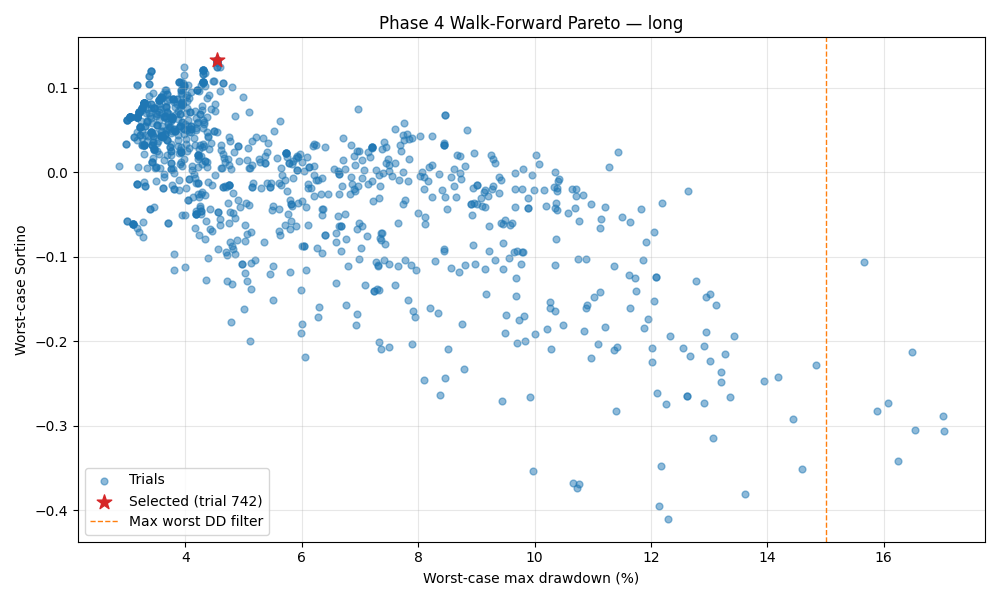
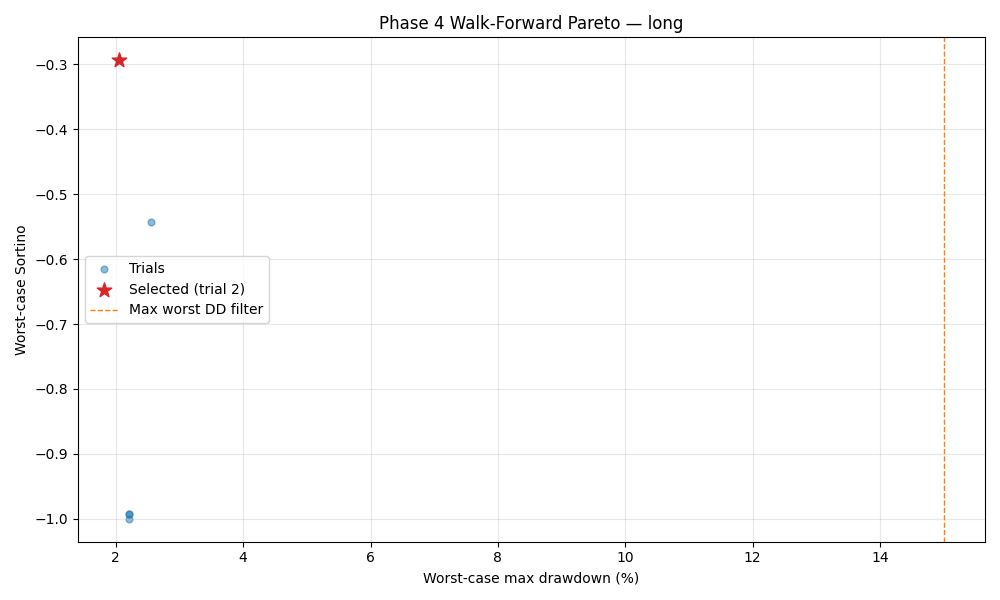
Update configuration parameters and documentation for Phase 2 and Phase 4 optimizations, including adjustments to Sortino scale and cap, risk parameters, and validation splits. Enhance unit tests to reflect new parameter bounds.

diff --git a/gpu_fuzzy_trader/config.py b/gpu_fuzzy_trader/config.py
@@ -156,8 +156,8 @@ PHASE2_SUPPORT_PENALTY_WEIGHT_F2 = 0.35
 PHASE2_SUPPORT_PENALTY_WEIGHT_F3 = 0.35
 
 # Fitness transform: tanh(sortino / SCALE) * CAP (avoids sentinel pinning at gen 0).
-SORTINO_CAP = 5.0
-SORTINO_SCALE = 3.0
+SORTINO_CAP = 15.0
+SORTINO_SCALE = 5.0
 
 # Worst-case train/val Sortino when both splits are evaluated.
 PHASE2_JOINT_TRAIN_VAL = True
@@ -175,7 +175,7 @@ PHASE2_ARCHIVE_MAX_SIZE = 500
 PHASE2_ARCHIVE_SEED_FRACTION = 0.35
 
 # Regime-stratified trade support (Phase 1 GMM artifact).
-PHASE2_REGIME_SUPPORT_ENABLED = True
+PHASE2_REGIME_SUPPORT_ENABLED = False
 PHASE2_REGIME_MODEL_PATH = PHASE1_REGIME_MODEL_PATH
 PHASE2_REGIME_CONCENTRATION_MIN = 0.90
 PHASE2_REGIME_MIN_WIN_RATE = 0.40
@@ -216,7 +216,7 @@ PHASE3_USE_TRAIN_TARGET = True
 # reject if val_sortino < ratio * train_sortino
 PHASE3_VAL_SORTINO_RATIO_GATE = 0.5
 PHASE3_VAL_DRAWDOWN_RATIO_GATE = 1.5  # reject if val_dd > ratio * train_dd
-PHASE3_PER_RULE_MIN_VAL_TRADES_PER_SYMBOL = 5
+PHASE3_PER_RULE_MIN_VAL_TRADES_PER_SYMBOL = 15
 # penalty on low corr(per-symbol PnL train, val)
 PHASE3_TRAIN_VAL_CORR_WEIGHT = 5.0
 PHASE3_VAL_GATE_PENALTY = 75.0
@@ -242,11 +242,11 @@ PHASE4_SL_MAX = 3.0
 PHASE4_CAPITAL_PCT_MIN = 10.0
 PHASE4_CAPITAL_PCT_MAX = 50.0
 PHASE4_TP_STEP = 0.5
-PHASE4_SL_STEP = 0.25
+PHASE4_SL_STEP = 0.5
 PHASE4_CAPITAL_STEP = 5.0
 PHASE4_TOTAL_CAP_PENALTY = 2.0
-PHASE4_N_TRIALS = 1000
-PHASE4_WF_SPLITS = 2
+PHASE4_N_TRIALS = 200
+PHASE4_WF_SPLITS = 4
 PHASE4_MAX_WORST_DRAWDOWN_PCT = 15.0
 PHASE4_SAMPLER = "nsga2"  # alternative: "tpe"
 PHASE4_SEED = 42

diff --git a/tests/unit/test_phase4_wf_optimizer.py b/tests/unit/test_phase4_wf_optimizer.py
@@ -163,8 +163,8 @@ class TestNormalizeCapitalPct:
 class TestParamsWithinBounds:
     def test_valid(self):
         rs = _make_rule_set()
-        rs["rules_set"][0]["tp"] = 2.0
-        rs["rules_set"][0]["sl"] = 1.0
+        rs["rules_set"][0]["tp"] = 4.0
+        rs["rules_set"][0]["sl"] = 2.0
         rs["rules_set"][0]["capital_pct"] = 20.0
         assert _params_within_bounds(rs) is True
 
@@ -211,8 +211,8 @@ class TestWalkForwardRiskOptimizer:
         data = _make_rule_set()
         data["risk_optimized"] = True
         for r in data["rules_set"]:
-            r["tp"] = 2.0
-            r["sl"] = 1.0
+            r["tp"] = 4.0
+            r["sl"] = 2.0
             r["capital_pct"] = 20.0
         path.write_text(json.dumps(data), encoding="utf-8")
         monkeypatch.setitem(m._OUTPUT_PATHS, "long", str(path))

diff --git a/docs/phase2_rule_pool.md b/docs/phase2_rule_pool.md
@@ -58,7 +58,7 @@ Raw Sortino values are passed through a tanh transform before being used as obje
 saturated = tanh(raw_sortino / SORTINO_SCALE) × SORTINO_CAP
 ```
 
-`SORTINO_SCALE = 3.0`, `SORTINO_CAP = 5.0` (config).
+`SORTINO_SCALE = 5.0`, `SORTINO_CAP = 15.0` (config).
 
 **Why saturation?** Without it, a rule with Sortino = 100 would dominate the Pareto front and crowd out rules with Sortino = 5 that might have better drawdown or win rate. The tanh transform compresses extreme values, allowing the Pareto front to maintain diversity across the objective space.
 
@@ -84,8 +84,8 @@ If the validation engine is unavailable or val trades are below `MIN_TRADE_POOL_
 
 During Phase 2, all rules are evaluated with fixed risk parameters:
 
-- `PHASE2_TP = 3.0` (%)
-- `PHASE2_SL = 1.5` (%)
+- `PHASE2_TP = 4.0` (%)
+- `PHASE2_SL = 2.0` (%)
 - `PHASE2_CAPITAL_PCT = 32.0` (%)
 
 **Why fixed?** Phase 2 is searching for rules with predictive alpha — the ability to identify market conditions that precede favorable price moves. By fixing TP/SL/capital, the search isolates rule quality from risk parameter tuning. Phase 4 handles risk optimization separately.
@@ -126,7 +126,7 @@ multiplied by per-objective weights `PHASE2_SUPPORT_PENALTY_WEIGHT_F1`,
 
 ### Regime-aware support penalty — `phase2_support.py`
 
-When `PHASE2_REGIME_SUPPORT_ENABLED = True`, a rule that concentrates its trades in one market regime can bypass the global support penalty if it meets the specialist criteria:
+When `PHASE2_REGIME_SUPPORT_ENABLED = False`, regime-specialist waivers are disabled and all rules follow the global support penalty. If you re-enable the flag for an experiment, a rule that concentrates its trades in one market regime can bypass the global support penalty if it meets the specialist criteria:
 
 1. **Concentration:** `trades_in_dominant_regime / total_trades ≥ PHASE2_REGIME_CONCENTRATION_MIN` (default: 0.90)
 2. **Threshold:** `trades_in_dominant_regime ≥ per_regime_trade_thresholds[dominant_regime]`
@@ -260,39 +260,39 @@ A chromosome is only included in the pool if `executed_trades ≥ MIN_TRADE_POOL
 
 ## 9. Configuration Reference
 
-| Parameter                            | Default   | Technical effect                                                                                                                |
-| ------------------------------------ | --------- | ------------------------------------------------------------------------------------------------------------------------------- |
-| `PHASE2_TP`                          | `3.0`     | TP % used for all Phase 2 evaluations. Increasing requires larger price moves to win, reducing trade frequency.                 |
-| `PHASE2_SL`                          | `1.5`     | SL % used for all Phase 2 evaluations. Increasing allows more drawdown before stopping out.                                     |
-| `PHASE2_CAPITAL_PCT`                 | `32.0`    | Capital % per rule during Phase 2. Affects position sizing and thus absolute PnL, but not Sortino (which is return-normalized). |
-| `MIN_CONDITIONS`                     | `3`       | Minimum active conditions per rule. Increase for more specific rules.                                                           |
-| `MAX_CONDITIONS`                     | `4`       | Maximum active conditions per rule. Decrease for simpler rules.                                                                 |
-| `MIN_TRADE_SUPPORT`                  | `200`     | Minimum trades for zero support penalty. Increase to require more statistical evidence.                                         |
-| `SUPPORT_PENALTY_MAX`                | `12.0`    | Maximum support penalty magnitude. Increase to more aggressively penalize low-frequency rules.                                  |
-| `MIN_TRADE_POOL_FLOOR`               | `50`      | Hard minimum trades for pool inclusion. Rules below this are excluded regardless of Sortino.                                    |
-| `PHASE2_SUPPORT_PENALTY_WEIGHT_F1`  | `1.0`     | Multiplicative weight applied to support penalty in Phase 2 objective `f1`.                                            |
-| `PHASE2_SUPPORT_PENALTY_WEIGHT_F2`  | `0.35`    | Multiplicative weight applied to support penalty in Phase 2 objective `f2`.                                           |
-| `PHASE2_SUPPORT_PENALTY_WEIGHT_F3`  | `0.35`    | Multiplicative weight applied to support penalty in Phase 2 objective `f3`.                                           |
-| `SORTINO_CAP`                        | `5.0`     | Maximum saturated Sortino value. Increase to allow more differentiation at the top end.                                         |
-| `SORTINO_SCALE`                      | `3.0`     | tanh saturation scale. Increase for less aggressive compression.                                                                |
-| `PHASE2_JOINT_TRAIN_VAL`             | `True`    | Use min(train, val) Sortino as objective. Disable to optimize on training only (higher overfitting risk).                       |
-| `PHASE2_DIVERSITY_HAMMING_THRESHOLD` | `2`       | Hamming distance threshold for diversity penalty. Increase to enforce more diversity.                                           |
-| `PHASE2_DIVERSITY_PENALTY`           | `5.0`     | Penalty magnitude for near-duplicate chromosomes. Increase to more aggressively enforce diversity.                              |
-| `PHASE2_POPULATION_SIZE`             | `200`     | Population size. Increase for better Pareto coverage (linear compute cost).                                                     |
-| `PHASE2_GENERATIONS`                 | `200`     | Number of generations. Increase for more evolution (linear compute cost).                                                       |
-| `PHASE2_ALGORITHM`                   | `"NSGA3"` | Fixed. NSGA-III when EvoX is installed, NSGA-II fallback otherwise.                                                             |
-| `PHASE2_ARCHIVE_MAX_SIZE`            | `500`     | Maximum archive size per direction.                                                                                             |
-| `PHASE2_ARCHIVE_SEED_FRACTION`       | `0.35`    | Fraction of population seeded from previous pool. Increase for faster convergence, decrease for more exploration.               |
-| `PHASE2_INIT_STRATEGY`               | `"stratified_sparse"` | `stratified_sparse` enforces 3–4 active genes; `legacy` uses per-gene dont_care probability.                          |
-| `PHASE2_INIT_STRATUM_FRACTIONS`      | `(0.5, 0.3, 0.2)` | Elite / explorer / regime shares of non-seeded population.                                                              |
-| `PHASE2_INIT_SOFTMAX_TEMP`           | `0.5`     | Temperature for Phase 1 score softmax in elite stratum.                                                                         |
-| `PHASE2_INIT_UNIFORM_MIX`            | `0.05`    | Uniform floor mixed into feature sampling probabilities.                                                                        |
-| `PHASE2_MUTATION_WEIGHTED_ACTIVATE_PROB` | `0.70` | Probability of softmax-weighted vs uniform choice when mutation activates a gene.                                       |
-| `PHASE2_REGIME_SUPPORT_ENABLED`      | `True`    | Enable regime-aware specialist bypass. Disable to use only global support penalty.                                              |
-| `PHASE2_REGIME_CONCENTRATION_MIN`    | `0.90`    | Minimum trade concentration in one regime for specialist status.                                                                |
-| `PHASE2_REGIME_MIN_WIN_RATE`         | `0.40`    | Minimum win rate in dominant regime for specialist quality gate.                                                                |
-| `PHASE2_REGIME_USE_PNL_GATE`         | `True`    | Allow positive PnL (instead of win rate) to satisfy the specialist quality gate.                                                |
-| `PHASE2_NUMBA_ENABLED`               | `True`    | Use Numba-JIT NSGA helpers. Disable only for debugging.                                                                         |
+| Parameter                                | Default               | Technical effect                                                                                                                |
+| ---------------------------------------- | --------------------- | ------------------------------------------------------------------------------------------------------------------------------- |
+| `PHASE2_TP`                              | `3.0`                 | TP % used for all Phase 2 evaluations. Increasing requires larger price moves to win, reducing trade frequency.                 |
+| `PHASE2_SL`                              | `1.5`                 | SL % used for all Phase 2 evaluations. Increasing allows more drawdown before stopping out.                                     |
+| `PHASE2_CAPITAL_PCT`                     | `32.0`                | Capital % per rule during Phase 2. Affects position sizing and thus absolute PnL, but not Sortino (which is return-normalized). |
+| `MIN_CONDITIONS`                         | `3`                   | Minimum active conditions per rule. Increase for more specific rules.                                                           |
+| `MAX_CONDITIONS`                         | `4`                   | Maximum active conditions per rule. Decrease for simpler rules.                                                                 |
+| `MIN_TRADE_SUPPORT`                      | `200`                 | Minimum trades for zero support penalty. Increase to require more statistical evidence.                                         |
+| `SUPPORT_PENALTY_MAX`                    | `12.0`                | Maximum support penalty magnitude. Increase to more aggressively penalize low-frequency rules.                                  |
+| `MIN_TRADE_POOL_FLOOR`                   | `50`                  | Hard minimum trades for pool inclusion. Rules below this are excluded regardless of Sortino.                                    |
+| `PHASE2_SUPPORT_PENALTY_WEIGHT_F1`       | `1.0`                 | Multiplicative weight applied to support penalty in Phase 2 objective `f1`.                                                     |
+| `PHASE2_SUPPORT_PENALTY_WEIGHT_F2`       | `0.35`                | Multiplicative weight applied to support penalty in Phase 2 objective `f2`.                                                     |
+| `PHASE2_SUPPORT_PENALTY_WEIGHT_F3`       | `0.35`                | Multiplicative weight applied to support penalty in Phase 2 objective `f3`.                                                     |
+| `SORTINO_CAP`                            | `5.0`                 | Maximum saturated Sortino value. Increase to allow more differentiation at the top end.                                         |
+| `SORTINO_SCALE`                          | `3.0`                 | tanh saturation scale. Increase for less aggressive compression.                                                                |
+| `PHASE2_JOINT_TRAIN_VAL`                 | `True`                | Use min(train, val) Sortino as objective. Disable to optimize on training only (higher overfitting risk).                       |
+| `PHASE2_DIVERSITY_HAMMING_THRESHOLD`     | `2`                   | Hamming distance threshold for diversity penalty. Increase to enforce more diversity.                                           |
+| `PHASE2_DIVERSITY_PENALTY`               | `5.0`                 | Penalty magnitude for near-duplicate chromosomes. Increase to more aggressively enforce diversity.                              |
+| `PHASE2_POPULATION_SIZE`                 | `200`                 | Population size. Increase for better Pareto coverage (linear compute cost).                                                     |
+| `PHASE2_GENERATIONS`                     | `200`                 | Number of generations. Increase for more evolution (linear compute cost).                                                       |
+| `PHASE2_ALGORITHM`                       | `"NSGA3"`             | Fixed. NSGA-III when EvoX is installed, NSGA-II fallback otherwise.                                                             |
+| `PHASE2_ARCHIVE_MAX_SIZE`                | `500`                 | Maximum archive size per direction.                                                                                             |
+| `PHASE2_ARCHIVE_SEED_FRACTION`           | `0.35`                | Fraction of population seeded from previous pool. Increase for faster convergence, decrease for more exploration.               |
+| `PHASE2_INIT_STRATEGY`                   | `"stratified_sparse"` | `stratified_sparse` enforces 3–4 active genes; `legacy` uses per-gene dont_care probability.                                    |
+| `PHASE2_INIT_STRATUM_FRACTIONS`          | `(0.5, 0.3, 0.2)`     | Elite / explorer / regime shares of non-seeded population.                                                                      |
+| `PHASE2_INIT_SOFTMAX_TEMP`               | `0.5`                 | Temperature for Phase 1 score softmax in elite stratum.                                                                         |
+| `PHASE2_INIT_UNIFORM_MIX`                | `0.05`                | Uniform floor mixed into feature sampling probabilities.                                                                        |
+| `PHASE2_MUTATION_WEIGHTED_ACTIVATE_PROB` | `0.70`                | Probability of softmax-weighted vs uniform choice when mutation activates a gene.                                               |
+| `PHASE2_REGIME_SUPPORT_ENABLED`          | `True`                | Enable regime-aware specialist bypass. Disable to use only global support penalty.                                              |
+| `PHASE2_REGIME_CONCENTRATION_MIN`        | `0.90`                | Minimum trade concentration in one regime for specialist status.                                                                |
+| `PHASE2_REGIME_MIN_WIN_RATE`             | `0.40`                | Minimum win rate in dominant regime for specialist quality gate.                                                                |
+| `PHASE2_REGIME_USE_PNL_GATE`             | `True`                | Allow positive PnL (instead of win rate) to satisfy the specialist quality gate.                                                |
+| `PHASE2_NUMBA_ENABLED`                   | `True`                | Use Numba-JIT NSGA helpers. Disable only for debugging.                                                                         |
 
 ---
 

diff --git a/docs/phase4_wf_risk.md b/docs/phase4_wf_risk.md
@@ -4,39 +4,46 @@
 
 Phase 4 fine-tunes the risk parameters (TP, SL, and capital allocation) for each rule in the strategy selected by Phase 3. The rule conditions are frozen — Phase 4 only adjusts the numbers, not the logic.
 
+Current config defaults intentionally use a tighter search budget than earlier revisions: `PHASE4_N_TRIALS = 200`, `PHASE4_WF_SPLITS = 4`, `PHASE4_TP_STEP = 0.5`, and `PHASE4_SL_STEP = 0.5`.
+
 ---
 
 ## 1. What Phase 4 Optimizes
 
 For each rule in the strategy, Phase 4 searches for the best values of:
+
 - `tp`: Take-profit percentage (how far price must move in your favor to close the trade as a win)
 - `sl`: Stop-loss percentage (how far price must move against you before the trade is closed as a loss)
 - `capital_pct`: Percentage of current equity to allocate to this rule's trades
 
-These three parameters per rule define the risk profile of the strategy. Phase 2 used fixed values (`PHASE2_TP = 3.0`, `PHASE2_SL = 1.5`, `PHASE2_CAPITAL_PCT = 48.0`) to isolate rule quality from risk tuning. Phase 4 now optimizes these values jointly.
+These three parameters per rule define the risk profile of the strategy. Phase 2 used fixed values (`PHASE2_TP = 4.0`, `PHASE2_SL = 2.0`, `PHASE2_CAPITAL_PCT = 32.0`) to isolate rule quality from risk tuning. Phase 4 now optimizes these values jointly.
 
 ---
 
 ## 2. Walk-Forward Validation — `split_validation_walk_forward`
 
-The validation split is divided into K chronological windows (`PHASE4_WF_SPLITS = 2` by default).
+The validation split is divided into K chronological windows (`PHASE4_WF_SPLITS = 4` by default).
 
 ### How the split works
 
 For each symbol independently:
+
 1. Rows are sorted by datetime.
 2. `np.array_split(np.arange(N), K)` divides the rows into K equal-sized chunks.
 3. Window i = concatenation of all symbols' chunk i.
 
-For example, with K=2 and a symbol with 1000 validation rows:
-- Window 1: rows 0–499 (first half of validation period)
-- Window 2: rows 500–999 (second half of validation period)
+For example, with K=4 and a symbol with 1000 validation rows:
+
+- Window 1: rows 0–249 (first quarter of validation period)
+- Window 2: rows 250–499
+- Window 3: rows 500–749
+- Window 4: rows 750–999 (last quarter)
 
 ### Why walk-forward?
 
 A single validation evaluation can be lucky or unlucky depending on the specific time period. Walk-forward validation evaluates the strategy on multiple non-overlapping time windows and uses the **worst-case** performance across windows as the objective. This is a conservative estimate of out-of-sample performance.
 
-**Effect of `PHASE4_WF_SPLITS`:** Increasing K (e.g., to 4) provides more robust worst-case estimates but requires more validation data per window. With K=2, each window has 50% of the validation data. With K=4, each window has 25%. If any symbol has fewer than K validation rows, Phase 4 will raise a `ValueError`.
+**Effect of `PHASE4_WF_SPLITS`:** Increasing K provides more robust worst-case estimates but requires more validation data per window. With K=4, each window has 25% of the validation data. If any symbol has fewer than K validation rows, Phase 4 will raise a `ValueError`.
 
 ---
 
@@ -68,25 +75,26 @@ penalty = max(0, total_cap − 100.0) / 100.0 × PHASE4_TOTAL_CAP_PENALTY
 
 Each rule's parameters are sampled from quantized ranges:
 
-| Parameter | Range | Step | Config keys |
-|---|---|---|---|
-| `tp` | [2.0%, 4.0%] | 0.2% | `PHASE4_TP_MIN/MAX/STEP` |
-| `sl` | [1.0%, 2.0%] | 0.2% | `PHASE4_SL_MIN/MAX/STEP` |
+| Parameter     | Range          | Step | Config keys                       |
+| ------------- | -------------- | ---- | --------------------------------- |
+| `tp`          | [4.0%, 6.0%]   | 0.5% | `PHASE4_TP_MIN/MAX/STEP`          |
+| `sl`          | [2.0%, 3.0%]   | 0.5% | `PHASE4_SL_MIN/MAX/STEP`          |
 | `capital_pct` | [10.0%, 50.0%] | 5.0% | `PHASE4_CAPITAL_PCT_MIN/MAX/STEP` |
 
-The quantization (step sizes) reduces the search space and prevents the optimizer from finding spurious precision. For example, TP has `(4.0 − 2.0) / 0.2 + 1 = 11` possible values.
+The quantization (step sizes) reduces the search space and prevents the optimizer from finding spurious precision. For example, TP has `(6.0 − 4.0) / 0.5 + 1 = 5` possible values.
 
 **Effect of search space bounds:**
+
 - `PHASE4_TP_MIN/MAX`: Narrowing the TP range focuses the search. If you know from Phase 2 that rules work best with TP around 3%, you could narrow to [2.5%, 3.5%].
 - `PHASE4_SL_MIN/MAX`: A tighter SL range (e.g., [1.0%, 1.5%]) forces more conservative stops.
 - `PHASE4_CAPITAL_PCT_MIN/MAX`: Lowering the maximum (e.g., to 30%) limits position sizing, reducing both upside and downside.
 
 ### Sampler — `PHASE4_SAMPLER`
 
-| Value | Algorithm | Behavior |
-|---|---|---|
-| `"nsga2"` (default) | NSGA-II | Multi-objective evolutionary search. Maintains a Pareto front of trials. Good for exploring the trade-off between Sortino and drawdown. |
-| `"tpe"` | Tree-structured Parzen Estimator | Bayesian optimization. Faster convergence but less diversity on the Pareto front. |
+| Value               | Algorithm                        | Behavior                                                                                                                                |
+| ------------------- | -------------------------------- | --------------------------------------------------------------------------------------------------------------------------------------- |
+| `"nsga2"` (default) | NSGA-II                          | Multi-objective evolutionary search. Maintains a Pareto front of trials. Good for exploring the trade-off between Sortino and drawdown. |
+| `"tpe"`             | Tree-structured Parzen Estimator | Bayesian optimization. Faster convergence but less diversity on the Pareto front.                                                       |
 
 **Effect of `PHASE4_N_TRIALS`:** The total number of Optuna trials. At 1000 trials with 2 rules, each trial evaluates 2 walk-forward windows = 2000 backtest simulations. Increasing this improves the quality of the Pareto front but increases compute time linearly.
 
@@ -137,25 +145,25 @@ Phase 4 is skipped if `outputs/{direction}.json` already exists, has `risk_optim
 
 ## 8. Configuration Reference
 
-| Parameter | Default | Technical effect |
-|---|---|---|
-| `PHASE4_TP_MIN` | `2.0` | Minimum TP % in search space. |
-| `PHASE4_TP_MAX` | `4.0` | Maximum TP % in search space. |
-| `PHASE4_SL_MIN` | `1.0` | Minimum SL % in search space. |
-| `PHASE4_SL_MAX` | `2.0` | Maximum SL % in search space. |
-| `PHASE4_CAPITAL_PCT_MIN` | `10.0` | Minimum capital % per rule. |
-| `PHASE4_CAPITAL_PCT_MAX` | `50.0` | Maximum capital % per rule. |
-| `PHASE4_TP_STEP` | `0.2` | TP quantization step. Decrease for finer search (larger search space). |
-| `PHASE4_SL_STEP` | `0.2` | SL quantization step. |
-| `PHASE4_CAPITAL_STEP` | `5.0` | Capital % quantization step. |
-| `PHASE4_TOTAL_CAP_PENALTY` | `2.0` | Penalty per unit of over-allocation. Increase to more aggressively penalize over-allocation. |
-| `PHASE4_N_TRIALS` | `1000` | Total Optuna trials. Increase for better optimization (linear compute cost). |
-| `PHASE4_WF_SPLITS` | `2` | Number of walk-forward windows. Increase for more robust worst-case estimates. |
-| `PHASE4_MAX_WORST_DRAWDOWN_PCT` | `15.0` | Maximum acceptable worst-case drawdown. Decrease for more conservative strategies. |
-| `PHASE4_SAMPLER` | `"nsga2"` | Optuna sampler. `"tpe"` for faster convergence, `"nsga2"` for better Pareto diversity. |
-| `PHASE4_SEED` | `42` | Random seed for reproducibility. |
-| `PHASE4_N_JOBS` | `1` | Parallel Optuna workers. Increase to use more CPU cores. |
-| `PHASE4_HARD_CAP_NORMALIZE` | `True` | Scale capital_pct so sum ≤ MAX_TOTAL_EXPOSURE_PCT. Disable only if using leverage. |
+| Parameter                       | Default   | Technical effect                                                                             |
+| ------------------------------- | --------- | -------------------------------------------------------------------------------------------- |
+| `PHASE4_TP_MIN`                 | `2.0`     | Minimum TP % in search space.                                                                |
+| `PHASE4_TP_MAX`                 | `4.0`     | Maximum TP % in search space.                                                                |
+| `PHASE4_SL_MIN`                 | `1.0`     | Minimum SL % in search space.                                                                |
+| `PHASE4_SL_MAX`                 | `2.0`     | Maximum SL % in search space.                                                                |
+| `PHASE4_CAPITAL_PCT_MIN`        | `10.0`    | Minimum capital % per rule.                                                                  |
+| `PHASE4_CAPITAL_PCT_MAX`        | `50.0`    | Maximum capital % per rule.                                                                  |
+| `PHASE4_TP_STEP`                | `0.2`     | TP quantization step. Decrease for finer search (larger search space).                       |
+| `PHASE4_SL_STEP`                | `0.2`     | SL quantization step.                                                                        |
+| `PHASE4_CAPITAL_STEP`           | `5.0`     | Capital % quantization step.                                                                 |
+| `PHASE4_TOTAL_CAP_PENALTY`      | `2.0`     | Penalty per unit of over-allocation. Increase to more aggressively penalize over-allocation. |
+| `PHASE4_N_TRIALS`               | `200`     | Total Optuna trials. Increase for better optimization (linear compute cost).                 |
+| `PHASE4_WF_SPLITS`              | `4`       | Number of walk-forward windows. Increase for more robust worst-case estimates.               |
+| `PHASE4_MAX_WORST_DRAWDOWN_PCT` | `15.0`    | Maximum acceptable worst-case drawdown. Decrease for more conservative strategies.           |
+| `PHASE4_SAMPLER`                | `"nsga2"` | Optuna sampler. `"tpe"` for faster convergence, `"nsga2"` for better Pareto diversity.       |
+| `PHASE4_SEED`                   | `42`      | Random seed for reproducibility.                                                             |
+| `PHASE4_N_JOBS`                 | `1`       | Parallel Optuna workers. Increase to use more CPU cores.                                     |
+| `PHASE4_HARD_CAP_NORMALIZE`     | `True`    | Scale capital_pct so sum ≤ MAX_TOTAL_EXPOSURE_PCT. Disable only if using leverage.           |
 
 ---
 

diff --git a/RUN.md b/RUN.md
@@ -139,25 +139,25 @@ Tune Phase 2 hyperparameters in `gpu_fuzzy_trader/config.py` (`PHASE2_POPULATION
 
 Edit `gpu_fuzzy_trader/config.py` before running. Common settings:
 
-| Setting                        | Default                | Purpose                                                                        |
-| ------------------------------ | ---------------------- | ------------------------------------------------------------------------------ |
-| `TRAIN_CSV_PATH`               | `data/train.csv`       | Training CSV                                                                   |
-| `TEST_CSV_PATH`                | `data/test.csv`        | Test CSV                                                                       |
-| `PHASE1_TOP_K_FEATURES`        | `30`                   | Features per direction                                                         |
-| `PHASE2_ALGORITHM`             | `"NSGA3"`              | Fixed; NSGA-III when EvoX is installed                                         |
-| `PHASE2_POPULATION_SIZE`       | `200`                  | Phase 2 population                                                             |
-| `PHASE2_GENERATIONS`           | `100`                  | Phase 2 generations                                                            |
-| `PHASE2_POOL_DIR`              | `pools/`               | Persistent Phase 2 pool/history files in the project root                      |
-| `PHASE2_ARCHIVE_DIR`           | `phase2_rule_archive/` | Persistent Phase 2 archive in the project root                                 |
-| `PHASE2_ARCHIVE_MAX_SIZE`      | `500`                  | Max archive size per direction                                                 |
-| `PHASE2_ARCHIVE_SEED_FRACTION` | `0.35`                 | Fraction of Phase 2 population seeded from archive                             |
-| `PHASE3_REFINE_GENERATIONS`    | `80`                   | Refinement generations after greedy                                            |
-| `PHASE3_REFINE_POP_SIZE`       | `100`                  | Refinement population size                                                     |
-| `PHASE3_USE_PARALLEL_BATCH`    | `True`                 | Parallel CPU batch eval for greedy + NSGA-II                                   |
-| `PHASE3_USE_GPU`               | `False`                | JAX cached-mask batch path (enable after parity tests)                          |
-| `PHASE4_N_TRIALS`              | `1000`                 | Phase 4 Optuna trials                                                          |
-| `PHASE4_WF_SPLITS`             | `2`                    | Phase 4 walk-forward validation windows                                        |
-| `PHASE4_N_JOBS`                | `1`                    | Phase 4 parallel Optuna workers (see phase4_wf_risk.md)                          |
+| Setting                        | Default                | Purpose                                                   |
+| ------------------------------ | ---------------------- | --------------------------------------------------------- |
+| `TRAIN_CSV_PATH`               | `data/train.csv`       | Training CSV                                              |
+| `TEST_CSV_PATH`                | `data/test.csv`        | Test CSV                                                  |
+| `PHASE1_TOP_K_FEATURES`        | `30`                   | Features per direction                                    |
+| `PHASE2_ALGORITHM`             | `"NSGA3"`              | Fixed; NSGA-III when EvoX is installed                    |
+| `PHASE2_POPULATION_SIZE`       | `200`                  | Phase 2 population                                        |
+| `PHASE2_GENERATIONS`           | `200`                  | Phase 2 generations                                       |
+| `PHASE2_POOL_DIR`              | `pools/`               | Persistent Phase 2 pool/history files in the project root |
+| `PHASE2_ARCHIVE_DIR`           | `phase2_rule_archive/` | Persistent Phase 2 archive in the project root            |
+| `PHASE2_ARCHIVE_MAX_SIZE`      | `500`                  | Max archive size per direction                            |
+| `PHASE2_ARCHIVE_SEED_FRACTION` | `0.35`                 | Fraction of Phase 2 population seeded from archive        |
+| `PHASE3_REFINE_GENERATIONS`    | `80`                   | Refinement generations after greedy                       |
+| `PHASE3_REFINE_POP_SIZE`       | `100`                  | Refinement population size                                |
+| `PHASE3_USE_PARALLEL_BATCH`    | `True`                 | Parallel CPU batch eval for greedy + NSGA-II              |
+| `PHASE3_USE_GPU`               | `False`                | JAX cached-mask batch path (enable after parity tests)    |
+| `PHASE4_N_TRIALS`              | `200`                  | Phase 4 Optuna trials                                     |
+| `PHASE4_WF_SPLITS`             | `4`                    | Phase 4 walk-forward validation windows                   |
+| `PHASE4_N_JOBS`                | `1`                    | Phase 4 parallel Optuna workers (see phase4_wf_risk.md)   |
 
 ---
 
@@ -232,13 +232,13 @@ Run individual phases — see [README.md § Running Individual Phases](README.md
 
 ## Troubleshooting
 
-| Issue                                                       | What to do                                                                                                                     |
-| ----------------------------------------------------------- | ------------------------------------------------------------------------------------------------------------------------------ |
-| `ModuleNotFoundError: No module named 'pandas'` (or others) | Activate venv and install dependencies (see Setup)                                                                             |
-| `FileNotFoundError` for `data/train.csv`                    | Run from project root; ensure data files exist                                                                                 |
-| Phase 2 very slow on CPU                                    | Install `jax` + `jaxlib` and `evox` + `torch`; optional GPU/CUDA build for faster backtests                                    |
-| Phase 2 uses NSGA-II instead of NSGA-III                    | Install `evox` and `torch`; check `phase2_*_history.json` — `"NSGA-II (fallback)"` means EvoX was unavailable                  |
-| Stale Phase 2 pools after code changes                      | `rm pools/phase2_{long,short}_{pool,history}.json` and re-run                                                                  |
+| Issue                                                       | What to do                                                                                                                                             |
+| ----------------------------------------------------------- | ------------------------------------------------------------------------------------------------------------------------------------------------------ |
+| `ModuleNotFoundError: No module named 'pandas'` (or others) | Activate venv and install dependencies (see Setup)                                                                                                     |
+| `FileNotFoundError` for `data/train.csv`                    | Run from project root; ensure data files exist                                                                                                         |
+| Phase 2 very slow on CPU                                    | Install `jax` + `jaxlib` and `evox` + `torch`; optional GPU/CUDA build for faster backtests                                                            |
+| Phase 2 uses NSGA-II instead of NSGA-III                    | Install `evox` and `torch`; check `phase2_*_history.json` — `"NSGA-II (fallback)"` means EvoX was unavailable                                          |
+| Stale Phase 2 pools after code changes                      | `rm pools/phase2_{long,short}_{pool,history}.json` and re-run                                                                                          |
 | Phase 3 still slow                                          | Ensure `PHASE3_USE_PARALLEL_BATCH=True`; raise `PHASE3_BATCH_WORKERS`; then increase `PHASE3_REFINE_*` after profiling; optional `PHASE3_USE_GPU=True` |
-| Phase 4 uses random search                                  | Install `stable-baselines3`, `gymnasium`, and `torch` for DDPG/PPO                                                             |
-| Want fresh OOS only                                         | Keep `outputs/long.json` / `short.json`; re-run pipeline (Phase 5 always runs)                                                 |
+| Phase 4 uses random search                                  | Install `stable-baselines3`, `gymnasium`, and `torch` for DDPG/PPO                                                                                     |
+| Want fresh OOS only                                         | Keep `outputs/long.json` / `short.json`; re-run pipeline (Phase 5 always runs)                                                                         |
